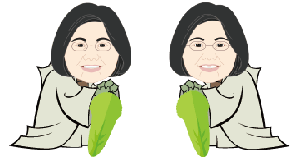
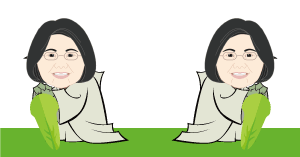
add tsai countdown

diff --git a/js/yoda.js b/js/yoda.js
@@ -16,8 +16,10 @@ var Yoda = function (game) {};
 
   const DIRECTION = { NONE: 0, LEFT: 1, RIGHT: 2, UP: 3, BOTTOM: 4 };
 
+  var isCountDown;
   var selectedCharacter;
   var characterMenu;
+  var expPics = ['explain3', 'explain2', 'explain1'];
   var monsters = {};
   var monsterIndex = 0;
   var monsterType = ['ufo', 'et', 'meteor'];
@@ -223,7 +225,7 @@ var Yoda = function (game) {};
       spr: spr
     };
     game.physics.enable(monster.spr, Phaser.Physics.ARCADE);
-    
+
     game.add.tween(spr.body).to( velocity, 3000, Phaser.Easing.Linear.None, true);
 
     game.time.events.add(3000, (context)=>{meetMonster(context.monster);}, null, {this: this, monster: monster});
@@ -349,6 +351,9 @@ var Yoda = function (game) {};
       game.load.image('et', 'media/yoda/et.png');
       game.load.image('meteor', 'media/yoda/meteor.png');
 
+      game.load.image('explain1', 'media/yoda/explain1.jpg');
+      game.load.image('explain2', 'media/yoda/explain2.jpg');
+      game.load.image('explain3', 'media/yoda/explain3.jpg');
     },
     create: function() {
       characterMenu = {
@@ -395,7 +400,63 @@ var Yoda = function (game) {};
       }
       game.add.sprite(0, 0, 'planet_bg');
       audioPlayer = createAudioPlayer(['bgm', 'gamestart', 'gameover', 'Ahhh2', 'step', 'meteor', 'ufo']);
-      
+
+      function preInitIntro() {
+        var expTmp;
+
+        for (var i = 0; i < expPics.length; i++) {
+          expTmp = game.add.image(0, 0, expPics[i]);
+          expTmp.inputEnabled = true;
+          expTmp.picID = i;
+          expTmp.events.onInputDown.add(function () {
+            this.visible = false;
+            this.destroy();
+            if (this.picID === 0) {
+              init();
+            }
+          }, expTmp);
+        }
+      }
+
+      function preGameCountDown() {
+        var texts = ["3", "2", "1", "GO!"];
+        for (var i = 0; i < 4; ++i) {
+          game.time.events.add(
+            i * 1000,
+            function(text) {
+              var countDownText = game.add.text(
+                gameWidth / 2,
+                gameHeight / 2,
+                text,
+                {
+                  font: "100px Arial",
+                  fill: "#FF0000"
+                }
+              );
+              countDownText.anchor.set(0.5);
+              var countDownTextTween = game.add.tween(countDownText).to(
+                {
+                  alpha: 0
+                },
+                1000,
+                "Linear",
+                true
+              );
+              if (text === "GO!") {
+                countDownTextTween.onComplete.add(
+                  function() {
+
+                  },
+                  game
+                );
+              }
+            },
+            game,
+            texts[i]
+          );
+        }
+      }
+
       function init() {
         var menuSprs = [];
         function createMenuItem(menuItem) {
@@ -420,6 +481,7 @@ var Yoda = function (game) {};
       }
 
       function preGameStart() {
+        preGameCountDown();
         var startAudio = audioPlayer.get('gamestart');
         startAudio.onStop.add(()=>{
           audioPlayer.get('bgm').loopFull();
@@ -477,7 +539,8 @@ var Yoda = function (game) {};
         // ----- create
         createMonsterEvent = game.time.events.loop(SPAWN_MONSTER_TIME, createMonster, this);
       }
-      init();
+      preInitIntro();
+      //init();
     },
     update: function() {
       if(isStart) {
